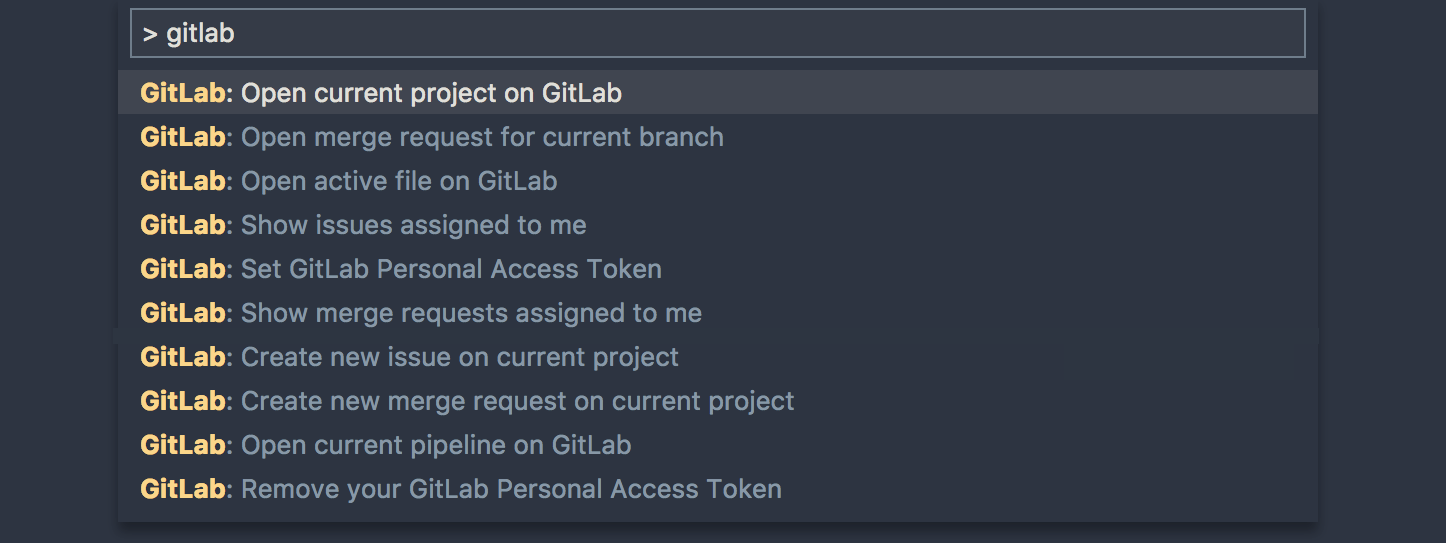
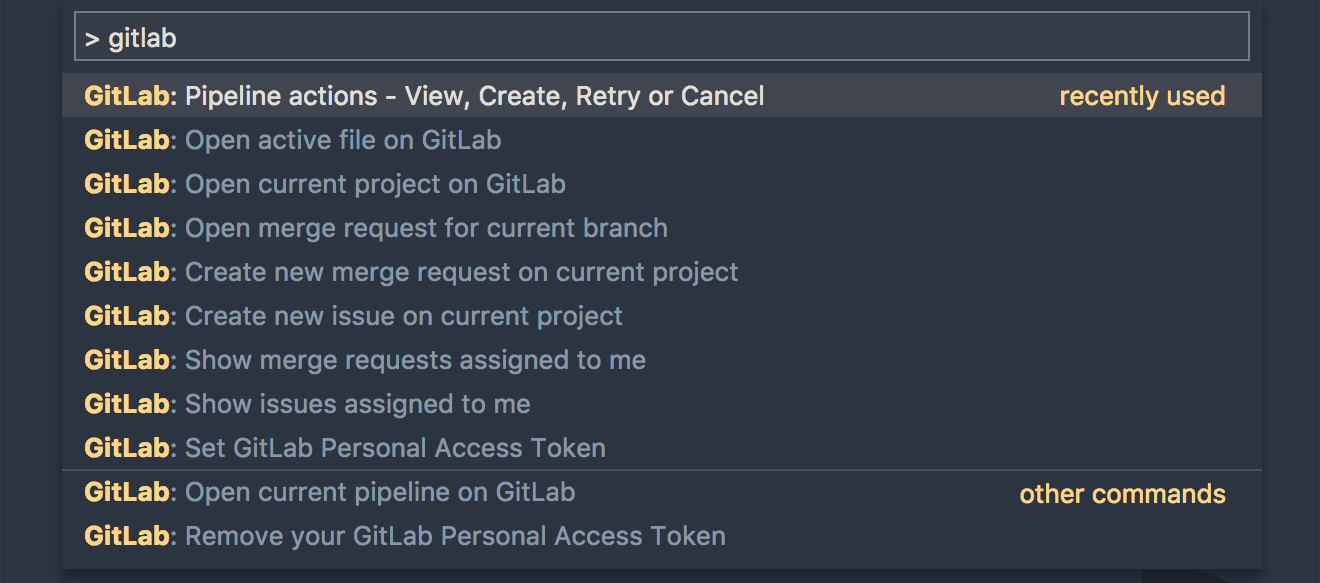
Implement pipeline actions.
# Conflicts:
#	README.md

diff --git a/src/gitlab_service.js b/src/gitlab_service.js
@@ -1,11 +1,13 @@
 const vscode = require('vscode');
+const opn = require('opn');
 const request = require('request-promise');
 const gitService = require('./git_service');
+const statusBar = require('./status_bar');
 
 let glToken = null;
 let branchMR = null;
 
-async function fetch(path) {
+async function fetch(path, method = 'GET') {
   const { instanceUrl } = vscode.workspace.getConfiguration('gitlab');
   const apiRoot = `${instanceUrl}/api/v4`;
 
@@ -15,6 +17,7 @@ async function fetch(path) {
 
   const config = {
     url: `${apiRoot}${path}`,
+    method,
     headers: {
       'PRIVATE-TOKEN': glToken,
     }
@@ -119,6 +122,39 @@ async function fetchOpenMergeRequestForCurrentBranch() {
 }
 
 /**
+ * Cancels or retries last pipeline or creates a new pipeline for current branch.
+ *
+ * @param {string} action create|retry|cancel
+ */
+async function handlePipelineAction(action) {
+  const pipeline = await fetchLastPipelineForCurrentBranch();
+  const project = await fetchCurrentProject();
+
+  if (pipeline && project) {
+    let endpoint = `/projects/${project.id}/pipelines/${pipeline.id}/${action}`;
+    let newPipeline = null;
+
+    if (action === 'create') {
+      const branchName = await gitService.fetchTrackingBranchName();
+      endpoint = `/projects/${project.id}/pipeline?ref=${branchName}`;
+    }
+
+    try {
+      newPipeline = await fetch(endpoint, 'POST');
+    } catch (e) {
+      vscode.window.showErrorMessage(`GitLab Workflow: Failed to ${action} pipeline.`);
+    }
+
+    if (newPipeline) {
+      opn(`${project.web_url}/pipelines/${newPipeline.id}`);
+      statusBar.refreshPipelines();
+    }
+  } else {
+    vscode.window.showErrorMessage('GitLab Workflow: No project or pipeline found.');
+  }
+}
+
+/**
  * @private
  * @param {string} token GL PAT
  */
@@ -131,4 +167,5 @@ exports.fetchMyOpenMergeRequests = fetchMyOpenMergeRequests;
 exports.fetchOpenMergeRequestForCurrentBranch = fetchOpenMergeRequestForCurrentBranch;
 exports.fetchLastPipelineForCurrentBranch = fetchLastPipelineForCurrentBranch;
 exports.fetchCurrentProject = fetchCurrentProject;
+exports.handlePipelineAction = handlePipelineAction;
 exports._setGLToken = _setGLToken;

diff --git a/src/pipeline_actions_picker.js b/src/pipeline_actions_picker.js
@@ -1,0 +1,36 @@
+const vscode = require('vscode');
+const gitLabService = require('./gitlab_service');
+const openers = require('./openers');
+
+async function showPicker() {
+  const items = [
+    {
+      label: 'View latest pipeline on GitLab',
+      action: 'view',
+    },
+    {
+      label: 'Create a new pipeline from current branch',
+      action: 'create',
+    },
+    {
+      label: 'Retry last pipeline',
+      action: 'retry',
+    },
+    {
+      label: 'Cancel last pipeline',
+      action: 'cancel',
+    },
+  ]
+
+  const selected = await vscode.window.showQuickPick(items);
+
+  if (selected) {
+    if (selected.action === 'view') {
+      return openers.openCurrentPipeline();
+    }
+
+    gitLabService.handlePipelineAction(selected.action);
+  }
+}
+
+exports.showPicker = showPicker;

diff --git a/src/extension.js b/src/extension.js
@@ -3,6 +3,7 @@ const openers = require('./openers');
 const statusBar = require('./status_bar');
 const tokenInput = require('./token_input');
 const gitLabService = require('./gitlab_service');
+const pipelineActionsPicker = require('./pipeline_actions_picker');
 
 let context = null;
 
@@ -24,6 +25,7 @@ const registerCommands = () => {
     'gl.openCreateNewMR': openers.openCreateNewMr,
     'gl.openProjectPage': openers.openProjectPage,
     'gl.openCurrentPipeline': openers.openCurrentPipeline,
+    'gl.pipelineActions': pipelineActionsPicker.showPicker,
   }
 
   Object.keys(commands).forEach((cmd) => {

diff --git a/src/status_bar.js b/src/status_bar.js
@@ -78,3 +78,4 @@ const dispose = () => {
 
 exports.init = init;
 exports.dispose = dispose;
+exports.refreshPipelines = refreshPipelines;

diff --git a/README.md b/README.md
@@ -6,6 +6,11 @@ This extension adds GitLab specific options to VSCode command pallette and statu
 
 - Shows pipeline status for current branch on VSCode status bar and click it to open pipeline on GitLab.
 - Shows MR id of your current branch on VSCode status bar and click it to view on GitLab.
+- Advanced pipeline actions menu
+  - View latest pipeline on GitLab.com
+  - Create a new pipeline for your current branch
+  - Retry last pipeline
+  - Cancel last pipeline
 - View current file on GitLab, including active line number and range selection.
 - View MR of current branch on GitLab.
 - View issues assigned to you on GitLab.
@@ -49,6 +54,8 @@ You can start using this extension right away. If your project has a pipeline fo
 
 ![https://gitlab.com/fatihacet/gitlab-vscode-extension/raw/master/src/assets/gitlab-vscode.png](https://gitlab.com/fatihacet/gitlab-vscode-extension/raw/master/src/assets/gitlab-vscode.png)
 
+![https://gitlab.com/fatihacet/gitlab-vscode-extension/raw/master/src/assets/pipeline-actions.png](https://gitlab.com/fatihacet/gitlab-vscode-extension/raw/master/src/assets/pipeline-actions.png)
+
 
 ### Configuration options
 
@@ -59,9 +66,9 @@ If you are using GitLab on a custom domain, you should add this to your user set
 
 
 ### What's next?
-- Pipeline link to pipeline status bar item.
-- View last pipeline on GitLab
-- Pipeline actions menu to quickly retry or cancel a pipeline.
+- `[Shipped in 0.2.2]` Pipeline link to pipeline status bar item.
+- `[Shipped in 0.2.2]` View last pipeline on GitLab.
+- `[Shipped in 0.3.0]` Pipeline actions menu to quickly view, retry, cancel or create a new pipeline.
 - Issue and MR search
 - Detailed issue and MR search
   - `title:MR discussions refactor label:frontend label:discussions assignee:fatihacet`

diff --git a/CHANGELOG.md b/CHANGELOG.md
@@ -1,5 +1,13 @@
 # CHANGELOG
 
+## [0.3.0] - 2018-01-30
+### Added
+- Pipeline actions picker
+  - View latest pipeline on GitLab.com
+  - Create a new pipeline for your current branch
+  - Retry last pipeline
+  - Cancel last pipeline
+
 ## [0.2.2] - 2018-01-29
 ### Added
 - Added a new command to open current pipeline on GitLab.
